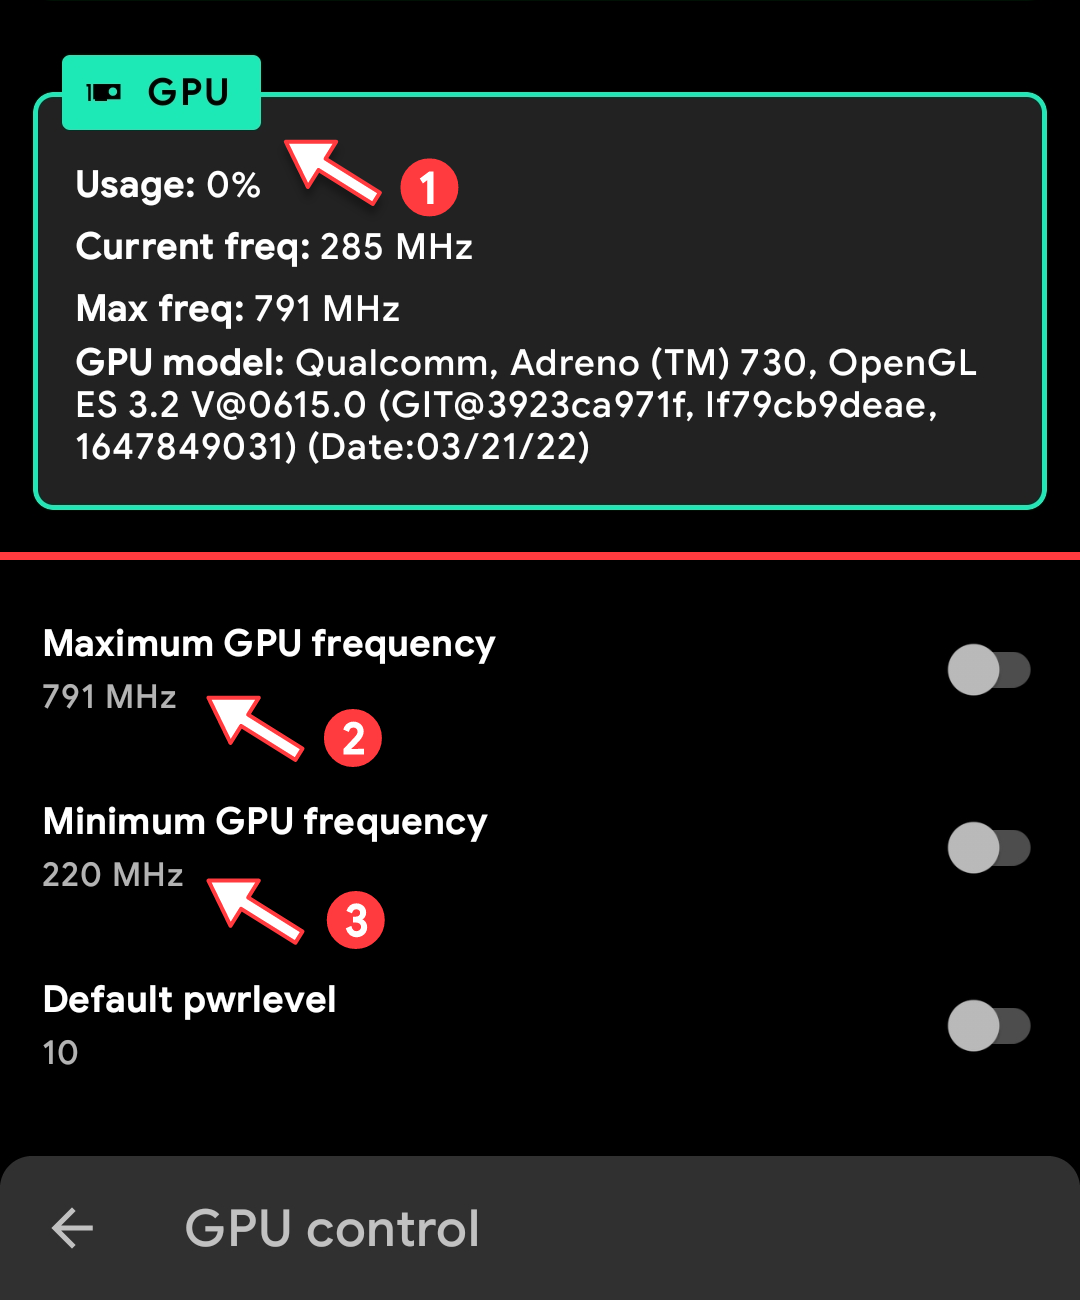
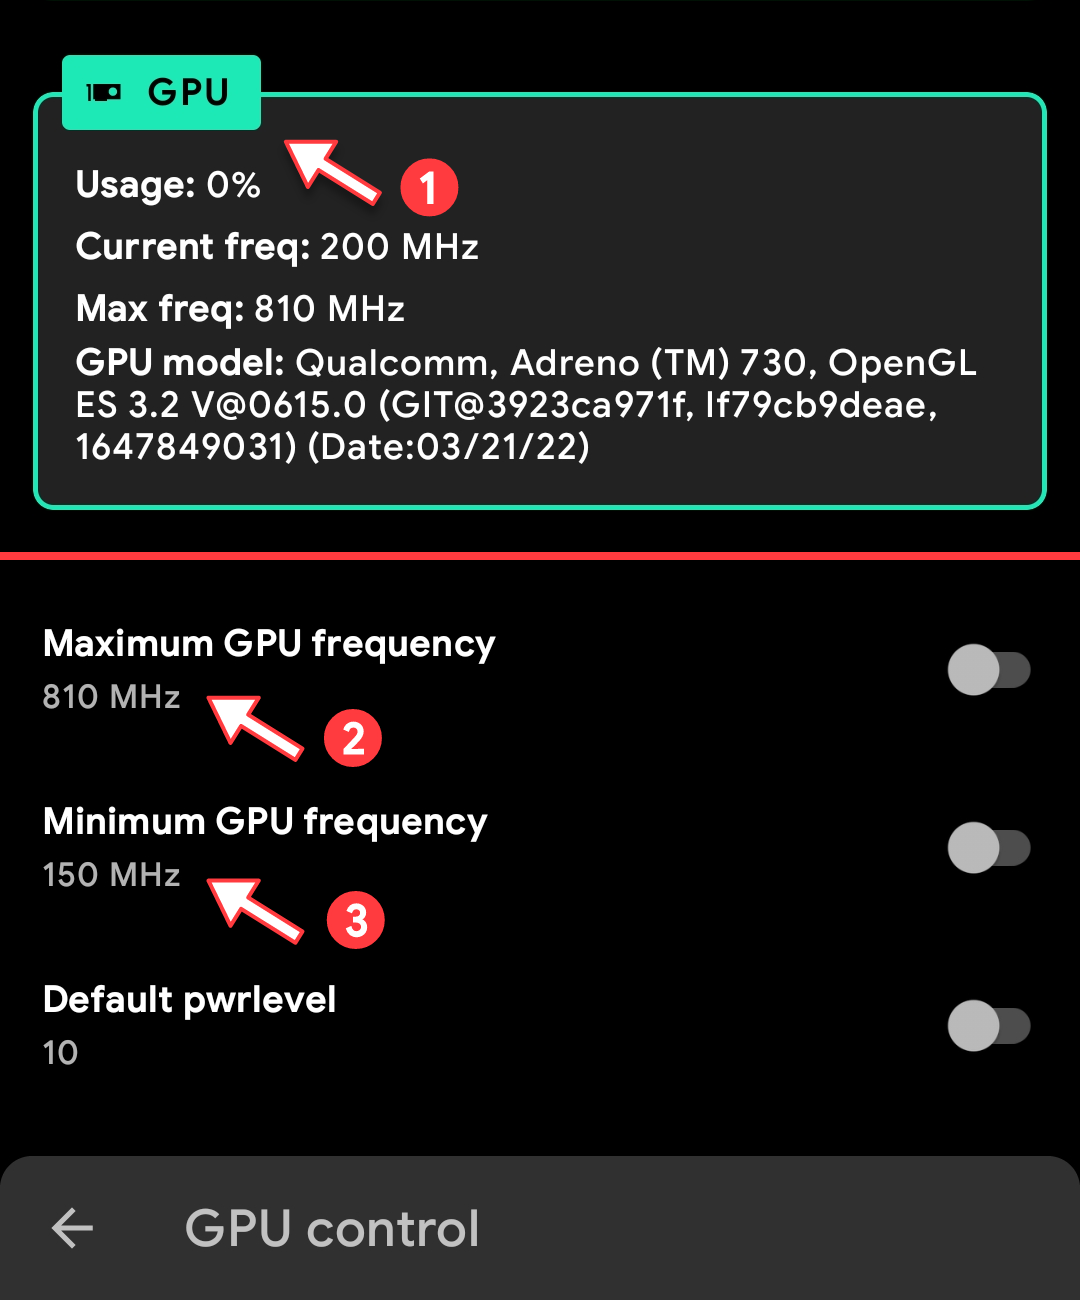
Fix some images and info in KonaBess guide

Changed region(s): [[0.2139, 0.1538, 0.4583, 0.2462], [0.0306, 0.6462, 0.1528, 0.6769], [0.0306, 0.5231, 0.1528, 0.5538]]

diff --git a/pt/como-usar-o-konabess.md b/pt/como-usar-o-konabess.md
@@ -5,12 +5,12 @@
 **Última edição**: 2022.07.20
 
 ## Idioma original
-- English Version: [How To Use KonaBess](../how-to-use-konabess.md)
+- English: [How To Use KonaBess](../how-to-use-konabess.md)
 
 ## Sobre
 Este artigo vai te guiar em como usar o app KonaBess para fazer overclock e undervolt de GPU, e faz parte do projeto [POCO F4 GT - Docs](README.md).
 
-É indicado a iniciantes e foi testado em um celular POCO F4 GT.
+É indicado a iniciantes e foi testado no celular POCO F4 GT.
 
 Acesse [Otimizando a bateria](README.md#otimizando-a-bateria) para saber mais sobre como este guia pode ser útil.
 
@@ -92,7 +92,7 @@ Toque em **OK** para confirmar a importação.
 ![](images/guia-konabess-passo12.png)
 
 ### Passo 13
-Opcional: A próxima etapa será aplicar as alterações, portanto, se você quiser verificar como está a GPU antes disso, abra o **Franco Kernel Manager**, conceda acesso Root, e toque em **GPU** para abrir as opções de GPU Control. **Minimum** e **Maximum GPU Frequency** devem mostrar os valores de fábrica de **220 MHz** e **734 MHz**. Esses valores serão alterados após o passo final.
+Opcional: A próxima etapa será aplicar as alterações, portanto, se você quiser verificar como está a GPU antes disso, abra o **Franco Kernel Manager**, conceda acesso Root, e toque em **GPU** para abrir as opções de GPU Control. **Maximum** e **Minimum GPU Frequency** devem mostrar os valores de fábrica de **791 MHz** e **220 MHz**. Esses valores serão alterados após o passo final.
 
 ![](images/guia-konabess-passo13.png)
 
@@ -107,7 +107,7 @@ O KonaBess mostrará algumas informações ao aplicar as alterações e pedirá 
 ![](images/guia-konabess-passo15.png)
 
 ### Passo 16
-Opcional: Quando o celular reiniciar, para verificar se as alterações foram aplicadas com sucesso, abra o **Franco Kernel Manager** e toque em **GPU** para abrir as configurações de controle de GPU. Agora **Minimum** e **Maximum GPU Frequency** devem mostrar os novos valores de **150 MHz** e **810 MHz**.
+Opcional: Quando o celular reiniciar, para verificar se as alterações foram aplicadas com sucesso, abra o **Franco Kernel Manager** e toque em **GPU** para abrir as configurações de controle de GPU. Agora **Maximum** e **Minimum GPU Frequency** devem mostrar os novos valores de **810 MHz** e **150 MHz**.
 
 ![](images/guia-konabess-passo16.png)
 

diff --git a/pt/README.md b/pt/README.md
@@ -61,7 +61,7 @@ Isso também permite fazer Root e dar permissões de admin a apps, para que eles
 ## Fazendo Root no Android
  TODO
 
-## Otimizando Bateria
+## Otimizando a bateria
  TODO
 
 
